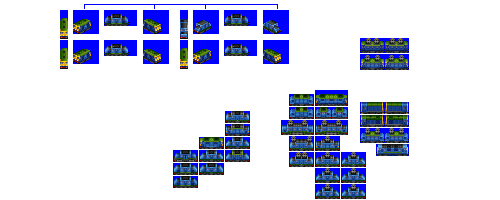
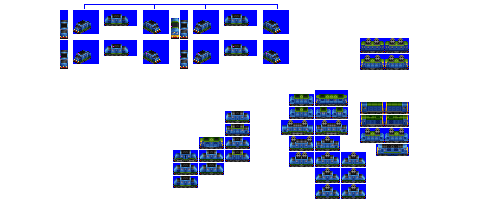
Change: sprites complete for Flindermouse

diff --git a/src/vehicles/flindermouse.py b/src/vehicles/flindermouse.py
@@ -11,7 +11,8 @@ def main(roster):
                             joker=True,  # this engine doesn't fit the set roster pattern, by design it's to mix things up
                             gen=3,
                             pantograph_type='diamond-double',
-                            intro_date_offset=-23)  # introduce earlier than gen epoch by design
+                            intro_date_offset=-23,  # introduce earlier than gen epoch by design
+                            sprites_complete=True)
 
     consist.add_unit(type=ElectricEngineUnit,
                      weight=65,
